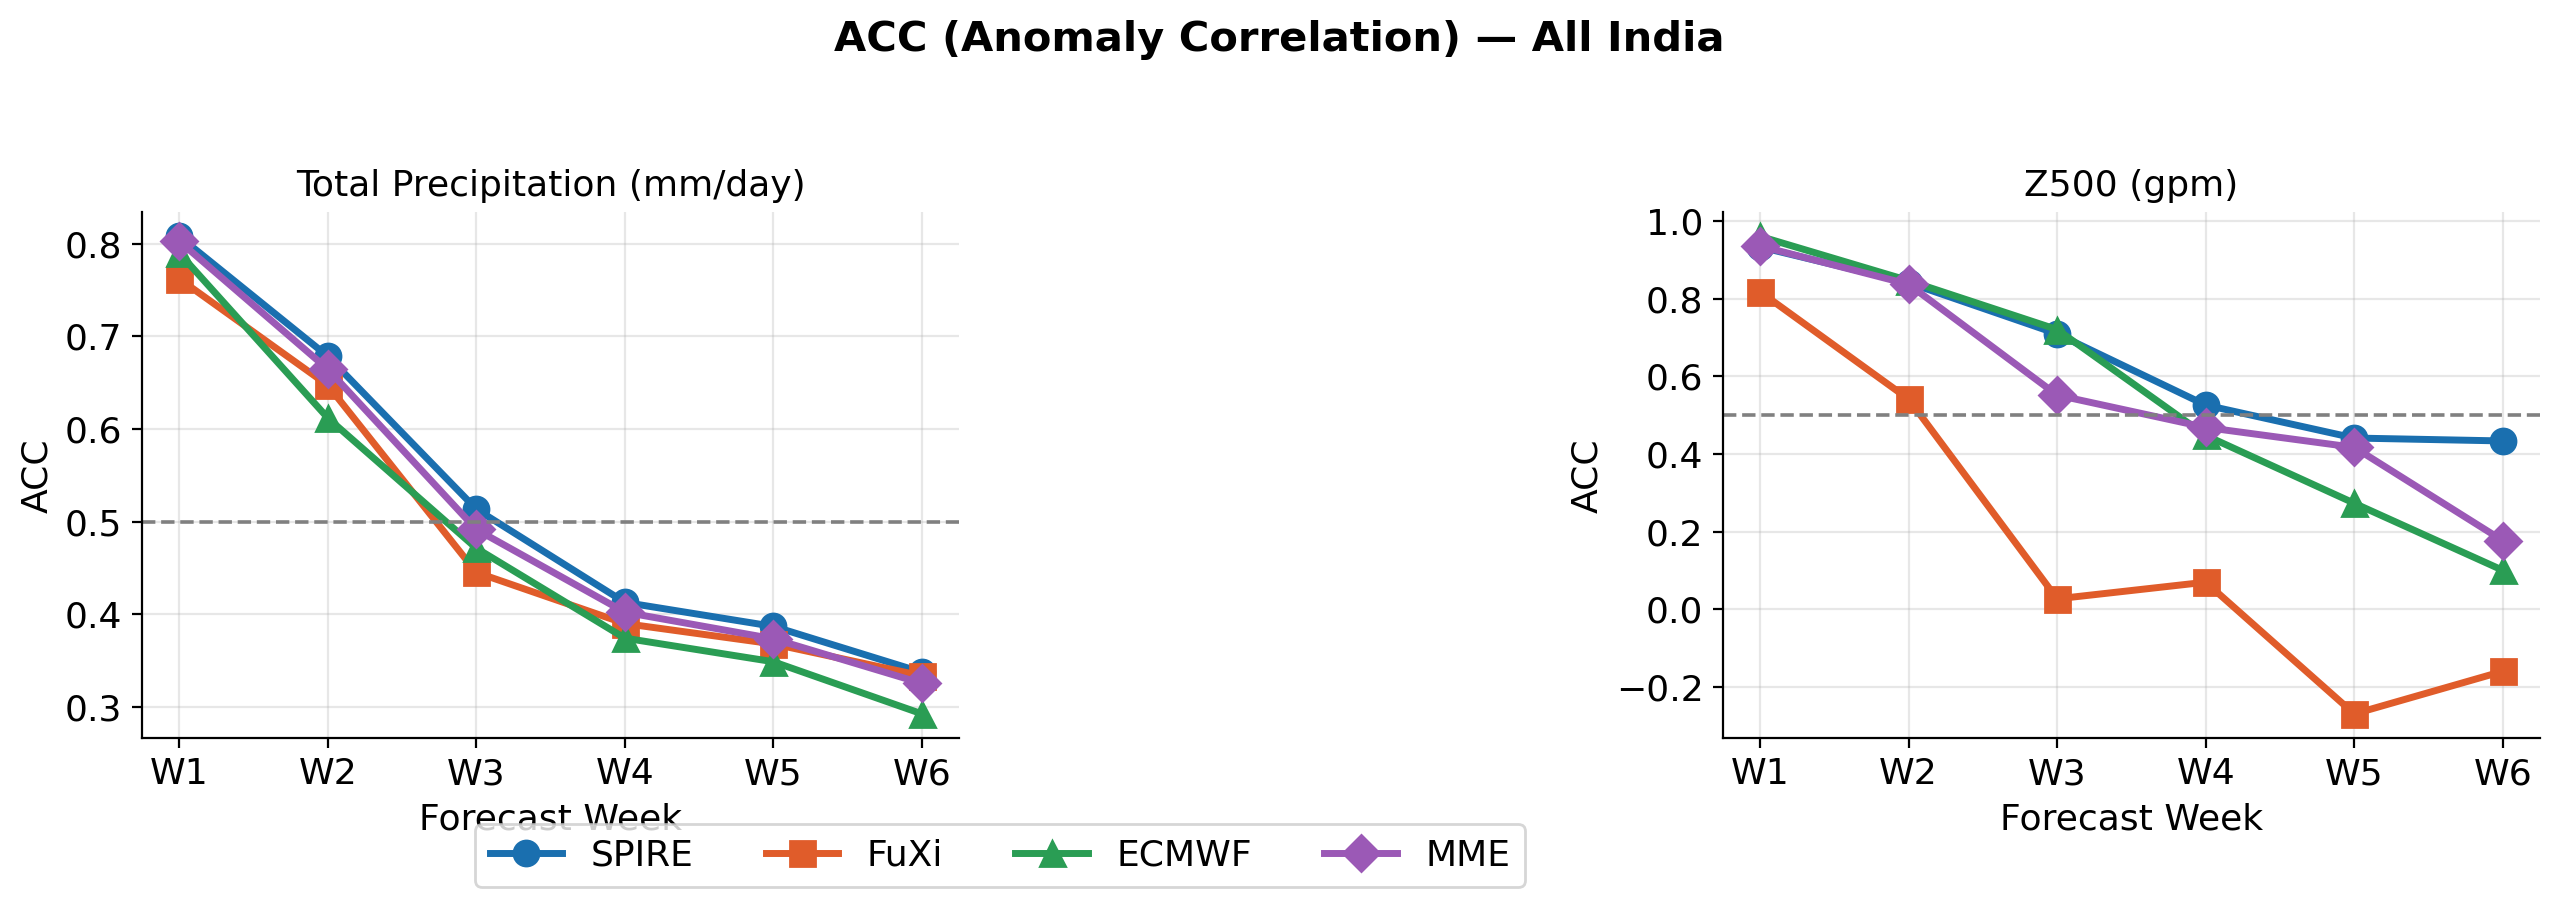
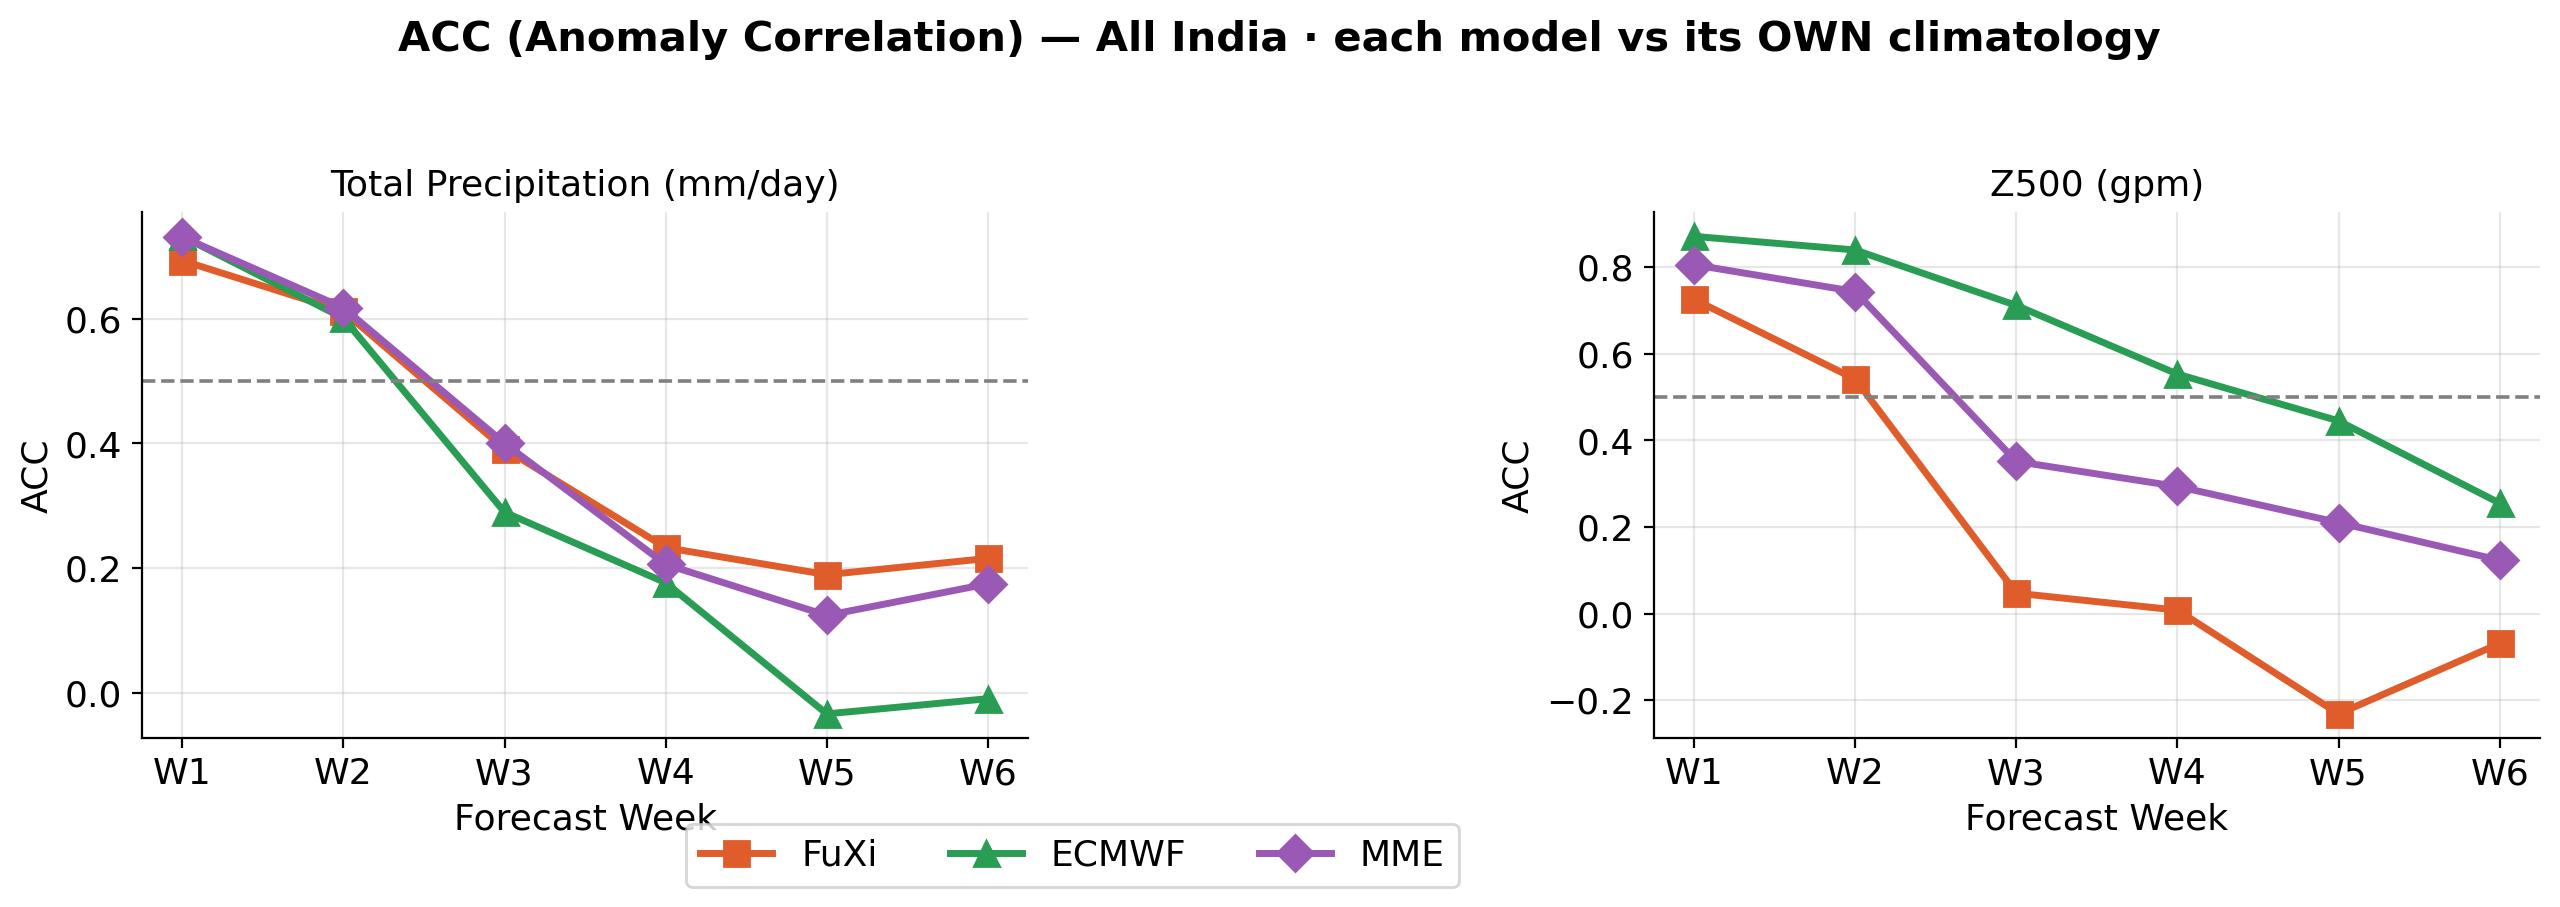
simple_figs: switch to model-own climatology basis
Score each model against ITS OWN hindcast climatology (clim_basis=model_own)
instead of ERA5. SPIRE has no model-own climatology so it is excluded;
figures now show FuXi/ECMWF/MME only. Titles updated accordingly.

diff --git a/paper/code/presentationv3/simple_figs/make_simple.py b/paper/code/presentationv3/simple_figs/make_simple.py
@@ -1,7 +1,9 @@
 #!/usr/bin/env python3
 """
 make_simple.py — THREE simple figures: ACC, RMSE, Bias.
-All India · weekly · ERA5 basis · models SPIRE/FuXi/ECMWF/MME.
+All India · weekly · MODEL-OWN climatology basis.
+Each model scored against ITS OWN hindcast climatology.
+Models: FuXi/ECMWF/MME  (SPIRE has no model-own climatology, so excluded).
 One line per model, value vs forecast week. Nothing else.
 
 Output (this folder):  acc.png  rmse.png  bias.png
@@ -16,9 +18,10 @@ import matplotlib.pyplot as plt
 HERE = os.path.dirname(os.path.abspath(__file__))
 CSV  = os.path.join(os.path.dirname(HERE), 'skill_deterministic.csv')
 
-MODELS = ['SPIRE', 'FuXi', 'ECMWF', 'MME']
-COLORS = {'SPIRE': '#1a6faf', 'FuXi': '#e05c2a', 'ECMWF': '#2a9d54', 'MME': '#9b59b6'}
-MARKERS = {'SPIRE': 'o', 'FuXi': 's', 'ECMWF': '^', 'MME': 'D'}
+# Only models that have their OWN hindcast climatology (SPIRE excluded)
+MODELS = ['FuXi', 'ECMWF', 'MME']
+COLORS = {'FuXi': '#e05c2a', 'ECMWF': '#2a9d54', 'MME': '#9b59b6'}
+MARKERS = {'FuXi': 's', 'ECMWF': '^', 'MME': 'D'}
 WEEKS  = [1, 2, 3, 4, 5, 6]
 WLABELS = ['W1', 'W2', 'W3', 'W4', 'W5', 'W6']
 VARS = {'TP': 'Total Precipitation (mm/day)', 'Z500': 'Z500 (gpm)'}
@@ -30,7 +33,7 @@ plt.rcParams.update({'font.size': 13, 'axes.spines.top': False,
 def load():
     df = pd.read_csv(CSV)
     return df[(df.scale == 'weekly') & (df.region == 'All India') &
-              (df.clim_basis == 'era5')]
+              (df.clim_basis == 'model_own')]
 
 
 def series(df, var, model, metric):
@@ -52,8 +55,8 @@ def make(df, metric, ylabel, title, fname, hline=None, ndigits=2):
         ax.set_ylabel(ylabel)
         ax.grid(alpha=0.3)
     fig.suptitle(title, fontsize=15, fontweight='bold')
-    axes[0].legend(ncol=4, loc='upper center', bbox_to_anchor=(1.05, -0.13),
-                   frameon=True)
+    axes[0].legend(ncol=len(MODELS), loc='upper center',
+                   bbox_to_anchor=(1.05, -0.13), frameon=True)
     fig.tight_layout(rect=[0, 0.04, 1, 0.95])
     out = os.path.join(HERE, fname)
     fig.savefig(out, dpi=200, bbox_inches='tight')
@@ -63,10 +66,11 @@ def make(df, metric, ylabel, title, fname, hline=None, ndigits=2):
 
 def main():
     df = load()
-    make(df, 'pcc',  'ACC',  'ACC (Anomaly Correlation) — All India', 'acc.png',
+    sub = 'All India · each model vs its OWN climatology'
+    make(df, 'pcc',  'ACC',  f'ACC (Anomaly Correlation) — {sub}', 'acc.png',
          hline=0.5)
-    make(df, 'rmse', 'RMSE', 'RMSE — All India', 'rmse.png')
-    make(df, 'bias', 'Bias', 'Mean Bias — All India', 'bias.png', hline=0.0)
+    make(df, 'rmse', 'RMSE', f'RMSE — {sub}', 'rmse.png')
+    make(df, 'bias', 'Bias', f'Mean Bias — {sub}', 'bias.png', hline=0.0)
     print('Done.')
 
 
